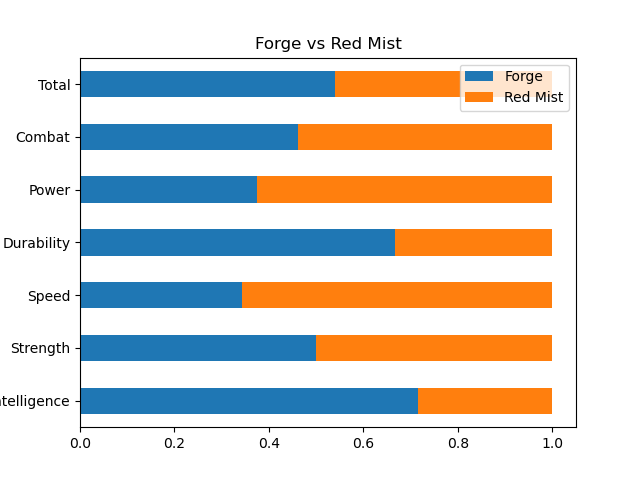
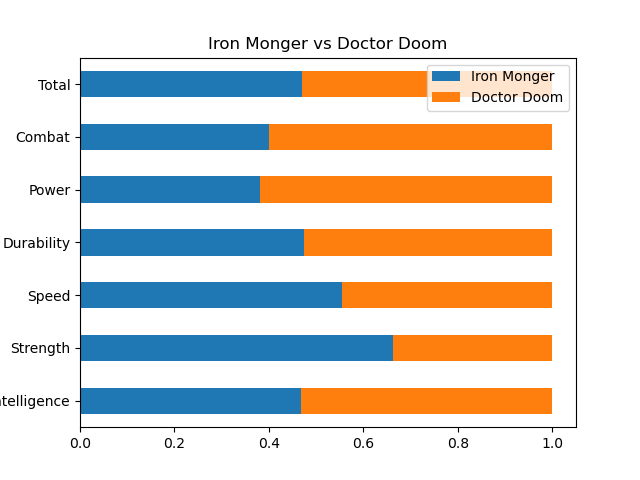
yyep

diff --git a/main.py b/main.py
@@ -57,7 +57,12 @@ def getsts(n) :
                 f1.write(line)
     os.remove("cs.csv")
 
-def getviz(cnames):
+def getviz(p3) :
+    plot = p3.plot(kind = 'barh', stacked = True, title = cnames[0] + " vs " + cnames[1], mark_right = True)
+    fig = plot.get_figure()
+    fig.savefig("comp.png")
+
+def getdiff(cnames):
     if os.path.exists("comp.png") :
         os.remove("comp.png")
     p1 = sdf.loc[sdf['Name'] == cnames[0]]
@@ -66,10 +71,8 @@ def getviz(cnames):
     p2 = p2.drop(columns=["Name", "Alignment"])
     p3 = pd.concat([p1 , p2]).transpose()
     p3.rename(columns = {p1.index[0] : cnames[0], p2.index[0] : cnames[1]}, inplace = True)
-    p4 = p3.div(p3.sum(axis=1), axis=0)
-    plot = p4.plot(kind = 'barh', stacked = True, title = cnames[0] + " vs " + cnames[1], mark_right = True)
-    fig = plot.get_figure()
-    fig.savefig("comp.png")
+    p3 = p3.div(p3.sum(axis=1), axis=0)
+    getviz(p3)
 
 api.dataset_download_file('dannielr/marvel-superheroes', 'charcters_stats.csv')
 api.dataset_download_file('dannielr/marvel-superheroes', 'superheroes_power_matrix.csv')
@@ -89,7 +92,7 @@ for i in range(1,n+1):
     getsts(i)
 
 if n == 2:
-    getviz(cnames)
+    getdiff(cnames)
 
 os.remove("stats.csv")
 os.remove("abilities.csv")
